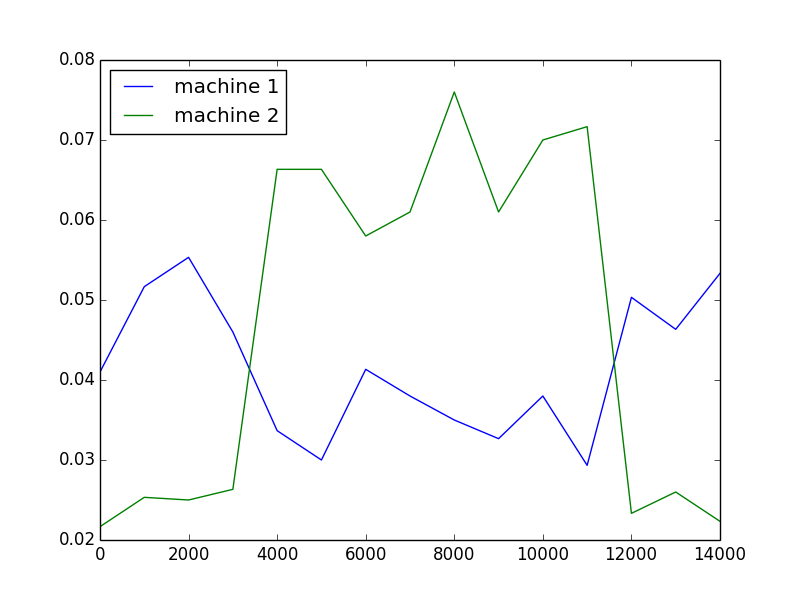
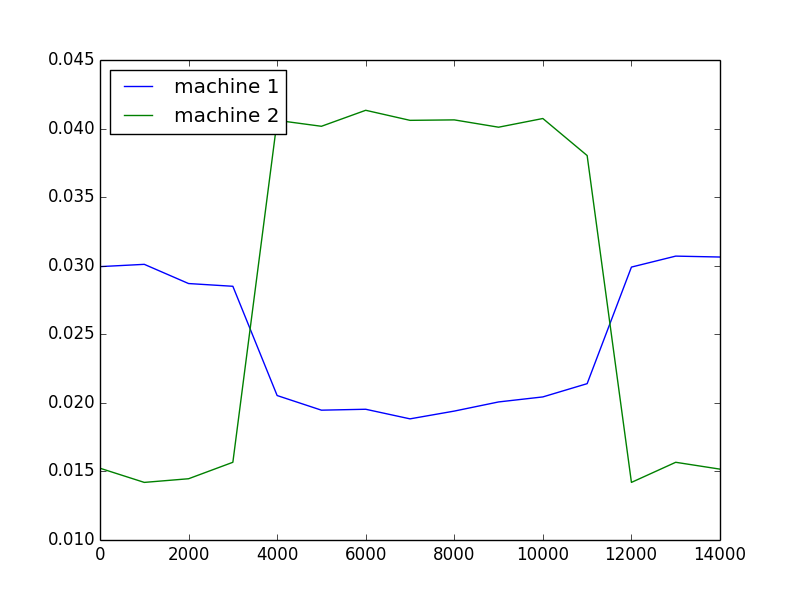
Updated results, example 7 dis changed

diff --git a/server-local/run.py b/server-local/run.py
@@ -16,6 +16,7 @@ def machines(example):
             '7': '2',
             '8': '3',
             '9': '4',
+            '10': '10',
             }[example]
     except:
         return "ERR"
@@ -34,6 +35,7 @@ def pulls(example):
             '7': '15000',
             '8': '3000',
             '9': '30000',
+            '10': '30000',
         }[example]
     except:
         return "ERR"
@@ -82,13 +84,13 @@ def pull(example, bandit, sequence):
                 else "ERR",
             },
             '7': {
-                '1': ("1" if random.random() < 0.05 else "0") if 1 <= int(sequence) < 3000
-                else ("1" if random.random() < 0.035 else "0") if 3000 <= int(sequence) <= 12000
-                else ("1" if random.random() < 0.05 else "0") if 12000 <= int(sequence) <= 15000
+                '1': ("1" if random.random() < 0.03 else "0") if 1 <= int(sequence) < 3000
+                else ("1" if random.random() < 0.02 else "0") if 3000 <= int(sequence) <= 12000
+                else ("1" if random.random() < 0.03 else "0") if 12000 <= int(sequence) <= 15000
                 else "ERR",
-                '2': ("1" if random.random() < 0.025 else "0") if 1 <= int(sequence) < 3000
-                else ("1" if random.random() < 0.07 else "0") if 3000 <= int(sequence) <= 12000
-                else ("1" if random.random() < 0.025 else "0") if 12000 <= int(sequence) <= 15000
+                '2': ("1" if random.random() < 0.015 else "0") if 1 <= int(sequence) < 3000
+                else ("1" if random.random() < 0.04 else "0") if 3000 <= int(sequence) <= 12000
+                else ("1" if random.random() < 0.015 else "0") if 12000 <= int(sequence) <= 15000
                 else "ERR",
                 },
             '8': {
@@ -147,6 +149,46 @@ def pull(example, bandit, sequence):
                 else ("1" if random.random() < 0.02 else "0") if 29000 <= int(sequence) <= 30000
                 else "ERR",
                 '4': ("1" if random.random() < 0 else "0") if 1 <= int(sequence) <= 30000 else "ERR"
+            },
+            '10': {
+                '1': ("1" if random.random() < 0.01 else "0") if 1 <= int(sequence) < 6000
+                else ("1" if random.random() < 0.02 else "0") if 6000 <= int(sequence) <= 12000
+                else ("1" if random.random() < 0.01 else "0") if 12000 <= int(sequence) <= 30000
+                else "ERR",
+                '2': ("1" if random.random() < 0.01 else "0") if 1 <= int(sequence) < 6000
+                else ("1" if random.random() < 0.02 else "0") if 6000 <= int(sequence) <= 12000
+                else ("1" if random.random() < 0.01 else "0") if 12000 <= int(sequence) <= 30000
+                else "ERR",
+                '3': ("1" if random.random() < 0.01 else "0") if 1 <= int(sequence) < 6000
+                else ("1" if random.random() < 0.02 else "0") if 6000 <= int(sequence) <= 12000
+                else ("1" if random.random() < 0.01 else "0") if 12000 <= int(sequence) <= 30000
+                else "ERR",
+                '4': ("1" if random.random() < 0.01 else "0") if 1 <= int(sequence) < 6000
+                else ("1" if random.random() < 0.02 else "0") if 6000 <= int(sequence) <= 12000
+                else ("1" if random.random() < 0.01 else "0") if 12000 <= int(sequence) <= 30000
+                else "ERR",
+                '5': ("1" if random.random() < 0.01 else "0") if 1 <= int(sequence) < 12000
+                else ("1" if random.random() < 0.02 else "0") if 12000 <= int(sequence) <= 24000
+                else ("1" if random.random() < 0.01 else "0") if 24000 <= int(sequence) <= 30000
+                else "ERR",
+                '6': ("1" if random.random() < 0.01 else "0") if 1 <= int(sequence) < 12000
+                else ("1" if random.random() < 0.02 else "0") if 12000 <= int(sequence) <= 24000
+                else ("1" if random.random() < 0.01 else "0") if 24000 <= int(sequence) <= 30000
+                else "ERR",
+                '7': ("1" if random.random() < 0.01 else "0") if 1 <= int(sequence) < 12000
+                else ("1" if random.random() < 0.02 else "0") if 12000 <= int(sequence) <= 24000
+                else ("1" if random.random() < 0.01 else "0") if 24000 <= int(sequence) <= 30000
+                else "ERR",
+                '8': ("1" if random.random() < 0.01 else "0") if 1 <= int(sequence) < 24000
+                else ("1" if random.random() < 0.02 else "0") if 24000 <= int(sequence) <= 30000
+                else "ERR",
+                '9': ("1" if random.random() < 0.01 else "0") if 1 <= int(sequence) < 24000
+                else ("1" if random.random() < 0.02 else "0") if 24000 <= int(sequence) <= 30000
+                else "ERR",
+                '10': ("1" if random.random() < 0.01 else "0") if 1 <= int(sequence) < 24000
+                else ("1" if random.random() < 0.02 else "0") if 24000 <= int(sequence) <= 30000
+                else "ERR",
+
             }
 
         }[example][bandit]

diff --git a/evaluate.py b/evaluate.py
@@ -5,6 +5,7 @@ from python.algorithms.ucb.ucb2 import UCB2
 from python.algorithms.exp3.exp3 import Exp3
 from rpm import RPM
 from rpm import RPMTime
+from rpm import RPMAnnealing
 import sys
 import matplotlib.pyplot as plt
 
@@ -27,7 +28,9 @@ def evaluate(api, repeat=20):
         ('rpm', RPM([], [])),
         ('rpmTime: 0.1', RPMTime(int(api.pulls * 0.1))),
         ('rpmTime: 0.2', RPMTime(int(api.pulls * 0.2))),
-        ('rpmTime: 0.3', RPMTime(int(api.pulls * 0.3)))
+        ('rpmTime: 0.3', RPMTime(int(api.pulls * 0.3))),
+        ('rpmA 0.9999', RPMAnnealing(0.9999)),
+        ('rpmA 0.99999', RPMAnnealing(0.99999)),
     ]
 
     """
@@ -37,6 +40,15 @@ def evaluate(api, repeat=20):
         ('rpmTime: 0.15', RPMTime(int(api.pulls * 0.15))),
         ('rpmTime: 0.2', RPMTime(int(api.pulls * 0.2))),
         ('rpmTime: 0.3', RPMTime(int(api.pulls * 0.3)))
+    ]
+
+
+    algos = [
+        ('rpmA 0.9999', RPMAnnealing(0.9999)),
+        ('rpmA 0.99999', RPMAnnealing(0.99999)),
+        ('rpmA 0.999999', RPMAnnealing(0.999999)),
+        ('rpmA 0.999999999', RPMAnnealing(0.999999999)),
+
     ]
     """
     for name, algo in algos:

diff --git a/rpm.py b/rpm.py
@@ -31,6 +31,35 @@ class RPM():
         return
 
 
+class RPMAnnealing():
+    def __init__(self, annealing_factor, counts = [], values = []):
+        self.counts = counts
+        self.values = values
+        self.anneal_fac = annealing_factor
+        return
+
+    def initialize(self, n_arms):
+        self.counts = [0 for col in range(n_arms)]
+        self.values = [0 for col in range(n_arms)]
+        return
+
+    def select_arm(self):
+        n_arms = len(self.counts)
+        rpm_values = [0.0 for arm in range(n_arms)]
+        for arm in range(n_arms):
+            rpm_values[arm] = random.betavariate(self.values[arm] + 1, self.counts[arm] - self.values[arm] + 1)
+        return ind_max(rpm_values)
+
+    def update(self, chosen_arm, reward):
+        for arm in range(len(self.counts)):
+            self.counts[arm] *= self.anneal_fac
+            self.values[arm] *= self.anneal_fac
+
+        self.counts[chosen_arm] += 1
+        self.values[chosen_arm] += reward
+        return
+
+
 class RPMTime():
     def __init__(self, history):
         self.history = history

diff --git a/api.py b/api.py
@@ -29,9 +29,8 @@ class JackpotApi:
             except:
                 consecutive_err += 1
             if consecutive_err > 5:
-                print "Program has been stopped due to max. number of consecutive errors was exceeded."
+                print "Program has been stopped due to max. number of consecutive errors was reached."
                 exit()
-
 
     def pull(self, bandit, sequence_n):
         return self.call("{}/{}".format(bandit, sequence_n))
